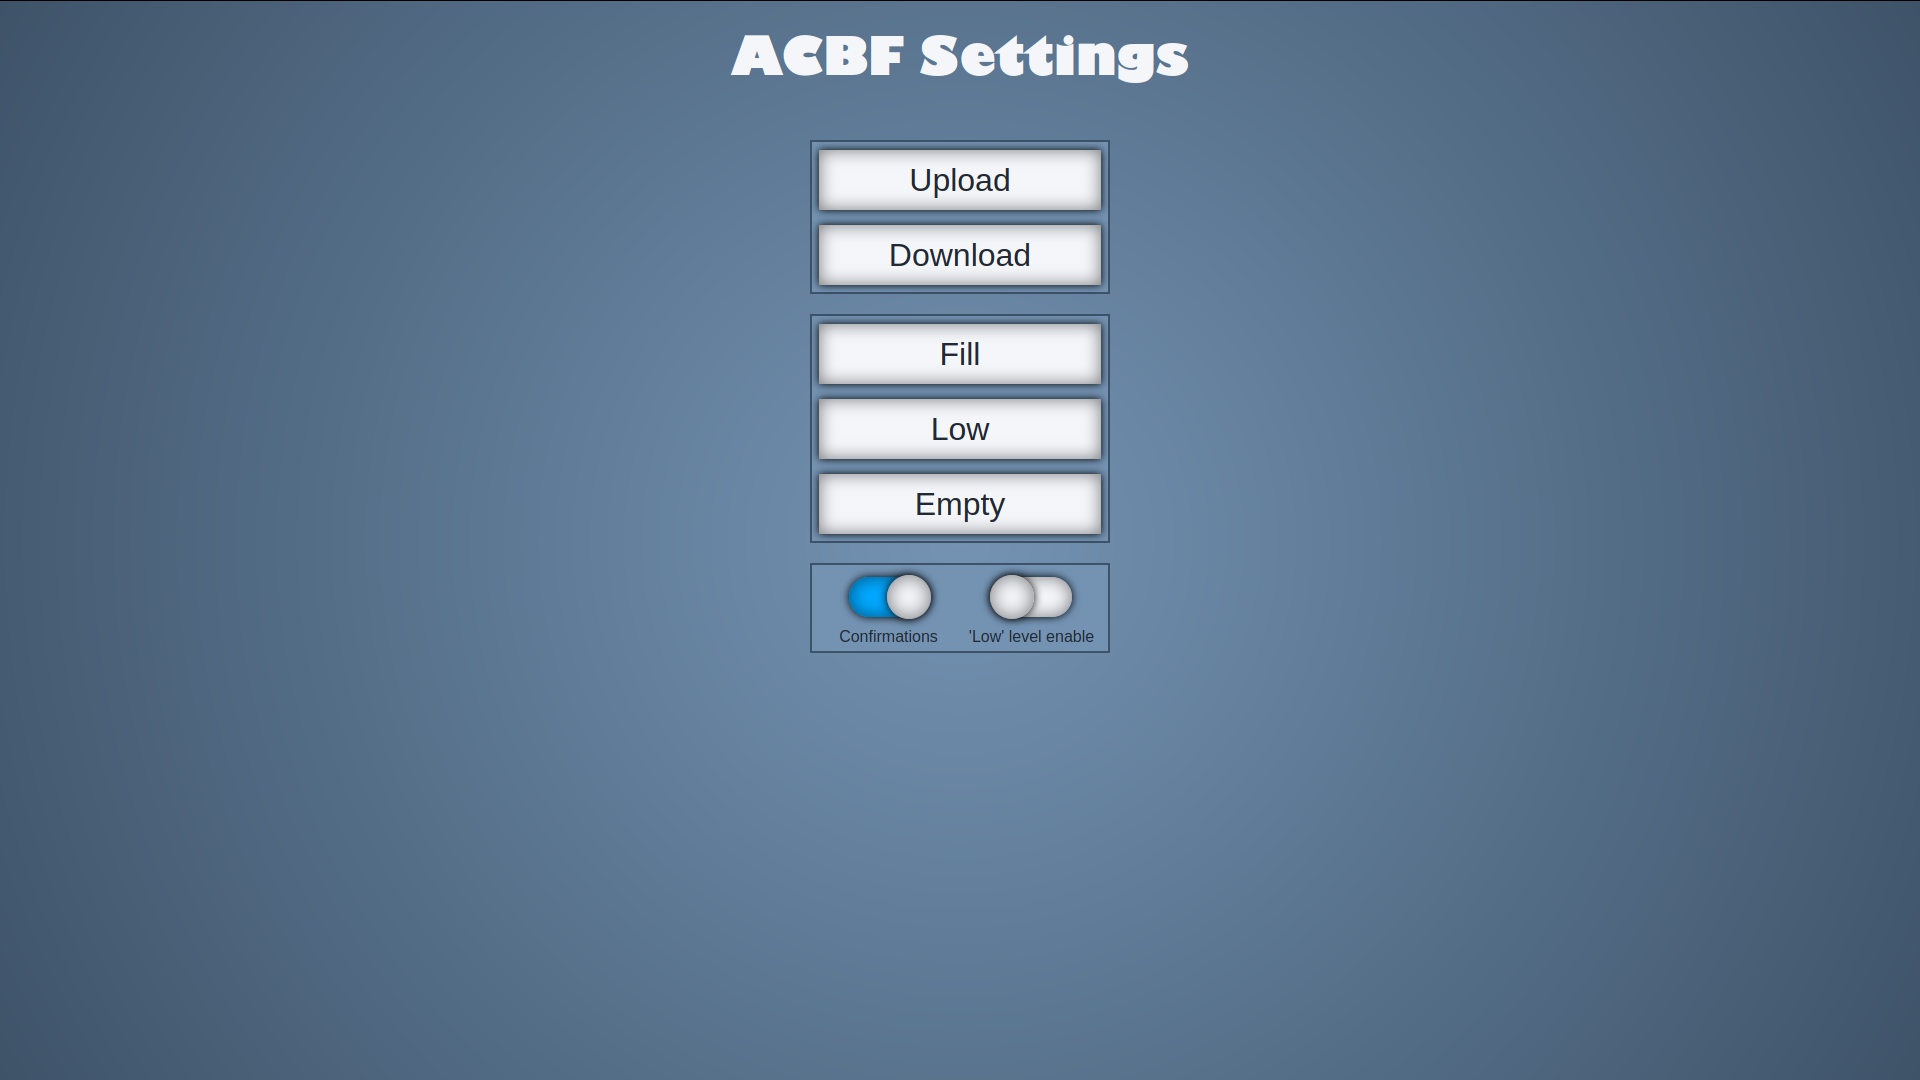
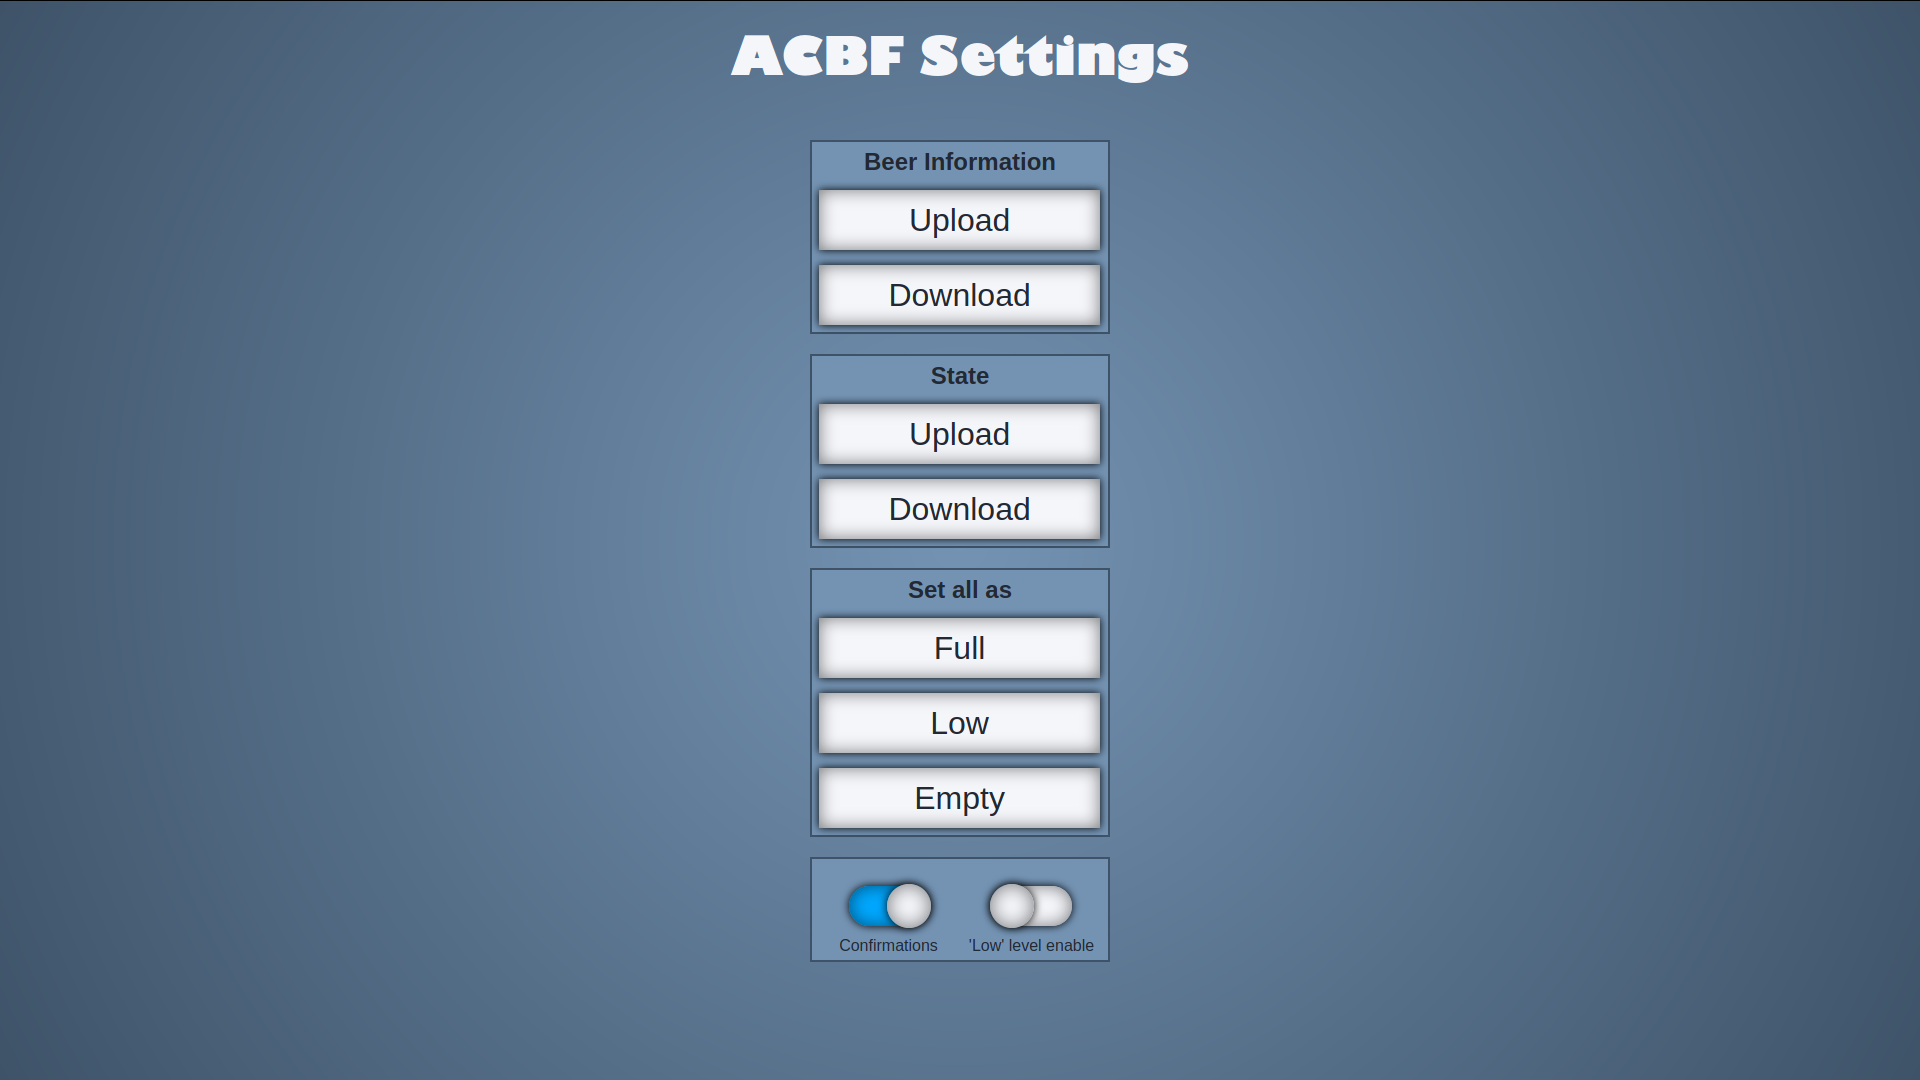
add ability to upload new beer information
* This can be done from the 'Settings' page.
* Uploading new information will update every connected client.
* The information will persist across server restarts
  as it's stored in /public/downloads/current-beers.csv.

Note: these is now no default information on deployment.
This means that if you push a new commit to a deployed server
you'll have to then upload the information that you want.

Changed region(s): [[0.4062, 0.1222, 0.5938, 0.9167]]

diff --git a/public/js/core.js b/public/js/core.js
@@ -80,7 +80,7 @@ export const socket = globalThis.io.connect(location.host, { transports: ['webso
  * @param {number} number The number that of the beer - used as an ID to get data from {@link BEERS}
  * @param {HTMLDivElement} element The element that the tooltip is to be added to
  */
-export function setTooltip(number, element) {
+function setTooltip(number, element) {
   const thisBeer = BEERS[number - 1]
   if (thisBeer !== undefined) {
     let vegan = ''
@@ -94,6 +94,8 @@ export function setTooltip(number, element) {
     const header = `${thisBeer.beer_number} - ${thisBeer.beer_name}${vegan}${glutenFree}`
     const divider = '-'.repeat(header.length + 10)
     element.title = `${header}\n${divider}\n${thisBeer.brewer}\n${thisBeer.abv}\n${thisBeer.beer_style}\n${thisBeer.description}`
+  } else {
+    element.title = ''
   }
 }
 
@@ -565,6 +567,41 @@ export function tableUpload() {
       const newTable = JSON.parse(reader.result.toString())
       socket.emit('update-all', newTable)
       STOCK_LEVELS = newTable
+    }
+
+    reader.readAsText(file)
+    console.debug(`Reading in ${file.size} bytes from ${file.name}`)
+  }
+  input_element.click()
+}
+
+/**
+ * This creates a hidden element that pops up an upload dialog that allows
+ * sending new beer information to the server for distribution.
+ */
+export function beersUpload() {
+  if (!AUTHORISED) return
+  const input_element = document.createElement('input')
+  input_element.type = 'file'
+  input_element.onchange = () => {
+    const reader = new FileReader()
+    const file = input_element.files[0]
+    reader.onload = () => {
+      // File type validation
+      if (file.type !== 'text/csv') {
+        alert("Error: this file is not of the right type,\nplease upload a valid 'beers.csv' file")
+        return
+      }
+
+      // File size validation
+      if (file.size > 100000) {
+        alert("Error: this file is too large,\nplease upload a valid 'beers.csv' file")
+        return
+      }
+
+      if (confirm('Are you sure you want to use this information?') !== true) return
+
+      socket.emit('beers-file', reader.result.toString())
     }
 
     reader.readAsText(file)

diff --git a/server.js b/server.js
@@ -49,7 +49,7 @@ if (!process.env.COOKIE_SECRET) {
 const ENABLE_API = process.env.ENABLE_API || 'false'
 const NODE_ENV = process.env.NODE_ENV || ''
 const REDIS_URL = process.env.REDIS_URL || ''
-const BEERS_FILE = process.env.BEERS_FILE || './public/downloads/2020-beers.csv'
+const BEERS_FILE = process.env.BEERS_FILE || './public/downloads/current-beers.csv'
 
 /** @type {configObj} */
 let last_config = {}
@@ -665,6 +665,33 @@ io.on('connection', (socket) => {
       } else {
         console.log(
           `Unauthenticated client ${socket.id} attempted to change the config with: ${JSON.stringify(configuration)}`
+        )
+        io.to(socket.id).emit('config', last_config)
+      }
+    })
+  })
+
+  socket.on('beers-file', (beersFileText) => {
+    redisClient.sismember('authed_ids', socket.handshake.session.id, (err, reply) => {
+      if (err) handleError("Couldn't check authed_ids from Redis", err)
+      if (reply) {
+        csvToJson()
+          .fromString(beersFileText)
+          .then((jsonObj) => {
+            beers = jsonObj
+            console.log('Sending updated beer information')
+            io.sockets.emit('beers', beers)
+
+            fs.writeFile('public/downloads/current-beers.csv', beersFileText, (err) => {
+              if (err) {
+                return console.log(err)
+              }
+              console.log('New beer information file saved')
+            })
+          })
+      } else {
+        console.log(
+          `Unauthenticated client ${socket.id} attempted to change the beer information with: ${beersFileText}`
         )
         io.to(socket.id).emit('config', last_config)
       }

diff --git a/public/style.css b/public/style.css
@@ -233,7 +233,7 @@ input[type='checkbox']:hover {
   justify-content: center;
 }
 
-.settings_utils {
+.settings_beers {
   border: solid 2px var(--main-colour);
   grid-column-start: 2;
   grid-column-end: 3;
@@ -245,7 +245,7 @@ input[type='checkbox']:hover {
   justify-content: space-between;
 }
 
-.settings_options {
+.settings_utils {
   border: solid 2px var(--main-colour);
   grid-column-start: 2;
   grid-column-end: 3;
@@ -257,12 +257,24 @@ input[type='checkbox']:hover {
   justify-content: space-between;
 }
 
-.settings_checkboxes {
+.settings_options {
   border: solid 2px var(--main-colour);
   grid-column-start: 2;
   grid-column-end: 3;
   grid-row-start: 4;
   grid-row-end: 4;
+  display: flex;
+  flex-direction: column;
+  align-items: center;
+  justify-content: space-between;
+}
+
+.settings_checkboxes {
+  border: solid 2px var(--main-colour);
+  grid-column-start: 2;
+  grid-column-end: 3;
+  grid-row-start: 5;
+  grid-row-end: 5;
   display: flex;
   justify-content: space-around;
   padding: 5px;
@@ -334,6 +346,7 @@ input[type='checkbox']:hover {
   font-family: monospace;
 }
 
+.settings_beers,
 .settings_utils,
 .settings_options,
 .settings_checkboxes,

diff --git a/public/js/history.js b/public/js/history.js
@@ -1,24 +1,31 @@
 /* eslint-env browser */
 'use strict'
 
-import { setTooltip, socket, updateHistory } from './core.js'
+import { socket, updateHistory } from './core.js'
+
+let historyLog = []
 
 socket.on('update-single', (stock_level) => {
+  historyLog.push(stock_level)
   updateHistory(stock_level)
 })
 
 socket.on('replace-all', (stock_level) => {
+  historyLog = []
   document.getElementById('history').innerHTML = ''
 })
 
 socket.on('history', (history) => {
   document.getElementById('history').innerHTML = ''
-  history.forEach((stock_level) => updateHistory(stock_level))
+  history.forEach((stock_level) => {
+    historyLog.push(stock_level)
+    updateHistory(stock_level)
+  })
 })
 
 socket.on('beers', (beerList) => {
-  // Update the existing entries' tooltips with the new information
-  document.querySelectorAll('.update').forEach((element) => {
-    setTooltip(Number(element.getElementsByClassName('number')[0].textContent), element)
+  document.getElementById('history').innerHTML = ''
+  historyLog.forEach((stock_level) => {
+    updateHistory(stock_level)
   })
 })

diff --git a/public/js/settings.js b/public/js/settings.js
@@ -1,9 +1,10 @@
 /* eslint-env browser */
 'use strict'
 
-import { AUTHORISED, TO_CONFIRM, LOW_ENABLE, socket, tableUpload, updateAllAs } from './core.js'
+import { AUTHORISED, TO_CONFIRM, LOW_ENABLE, socket, tableUpload, beersUpload, updateAllAs } from './core.js'
 
 const uploadButton = document.getElementById('uploadButton')
+const beersUploadButton = document.getElementById('beersUploadButton')
 const fullButton = document.getElementById('fullButton')
 const lowButton = document.getElementById('lowButton')
 const emptyButton = document.getElementById('emptyButton')
@@ -11,6 +12,7 @@ const confirm_checkbox = document.getElementById('confirm_check')
 const low_checkbox = document.getElementById('low_check')
 
 uploadButton.addEventListener('click', (event) => tableUpload())
+beersUploadButton.addEventListener('click', (event) => beersUpload())
 fullButton.addEventListener('click', (event) => updateAllAs('full'))
 lowButton.addEventListener('click', (event) => updateAllAs('low'))
 emptyButton.addEventListener('click', (event) => updateAllAs('empty'))

diff --git a/views/settings.html b/views/settings.html
@@ -21,6 +21,17 @@
     <div class="warning_icon" title="Server disconnected!">X</div>
     <div class="settings_container">
       <div class="settings_header"><h1>ACBF Settings</h1></div>
+      <div class="settings_beers">
+        <h2 class="container_header">Beer Information</h2>
+        <div class="button" id="beersUploadButton" title="Upload new beer information">Upload</div>
+        <a
+          class="button"
+          href="/downloads/current-beers.csv"
+          title="Download the beer information currently in use"
+          download="current-beers.csv"
+          >Download</a
+        >
+      </div>
       <div class="settings_utils">
         <h2 class="container_header">State</h2>
         <div class="button" id="uploadButton" title="Upload a previous state">Upload</div>

diff --git a/views/downloads.html b/views/downloads.html
@@ -24,6 +24,13 @@
         <a class="button" href="/downloads/acbf-beers.ods">acbf-beers.ods</a>
         <a class="button" href="/downloads/2018-beers.csv">2018-beers.csv</a>
         <a class="button" href="/downloads/2019-beers.csv">2019-beers.csv</a>
+        <a
+          class="button"
+          href="/downloads/current-beers.csv"
+          title="Download the beer information currently in use"
+          download="current-beers.csv"
+          >current-beers.csv</a
+        >
       </div>
     </div>
   </body>

diff --git a/docs/walkthrough.md b/docs/walkthrough.md
@@ -28,7 +28,11 @@ There is only one code and it is set up before the event. It can be changed mid-
 
 <img src="/docs/images/settings.png" width="384">
 
-The settings page is only accessible to logged in users. The three main functions are state management, resetting, and configuration.
+The settings page is only accessible to logged in users. The four main functions are beer information management, state management, resetting, and configuration.
+
+- **Upload** - Allows uploading new beer information. This will update the tooltips and Ve/GF hide states for every connected client and replace `/downloads/current-beers.csv`.
+  (Note: You can upload an empty file with a `.csv` extension to clear the current information)
+- **Download** - Downloads the current beer information from `/downloads/current-beers.csv`.
 
 - **Upload** - Allows uploading a previous state. This will cause the beers to be updated one-by-one so if you want a fresh start, use one of the reset buttons first (set all as _x_).
 - **Download** - Makes a call to the API at `/api/stock_levels` and initiates a download of the resulting JSON. This can be uploaded later or stored for future reference.
@@ -42,7 +46,8 @@ The settings page is only accessible to logged in users. The three main function
 
 <img src="/docs/images/downloads.png" width="384">
 
-This page contains the beer info spreadsheet as well as the `.csv` files for each year that are generated from it. The `.csv` file for the current year is used to display information about each beer on the 'Availability' and 'History' pages. This should be set in stone before the event but can be updated during it by the admin.
+This page contains the beer information spreadsheet as well as the `.csv` files for each year that are exported from it.
+The `.csv` file can be uploaded (`Settings` -> `Beer Information` -> `Upload`) and is used to display information about each beer on the 'Availability' and 'History' pages and 'hide' any non Ve/GF beers (if set).
 
 ## Availability
 
